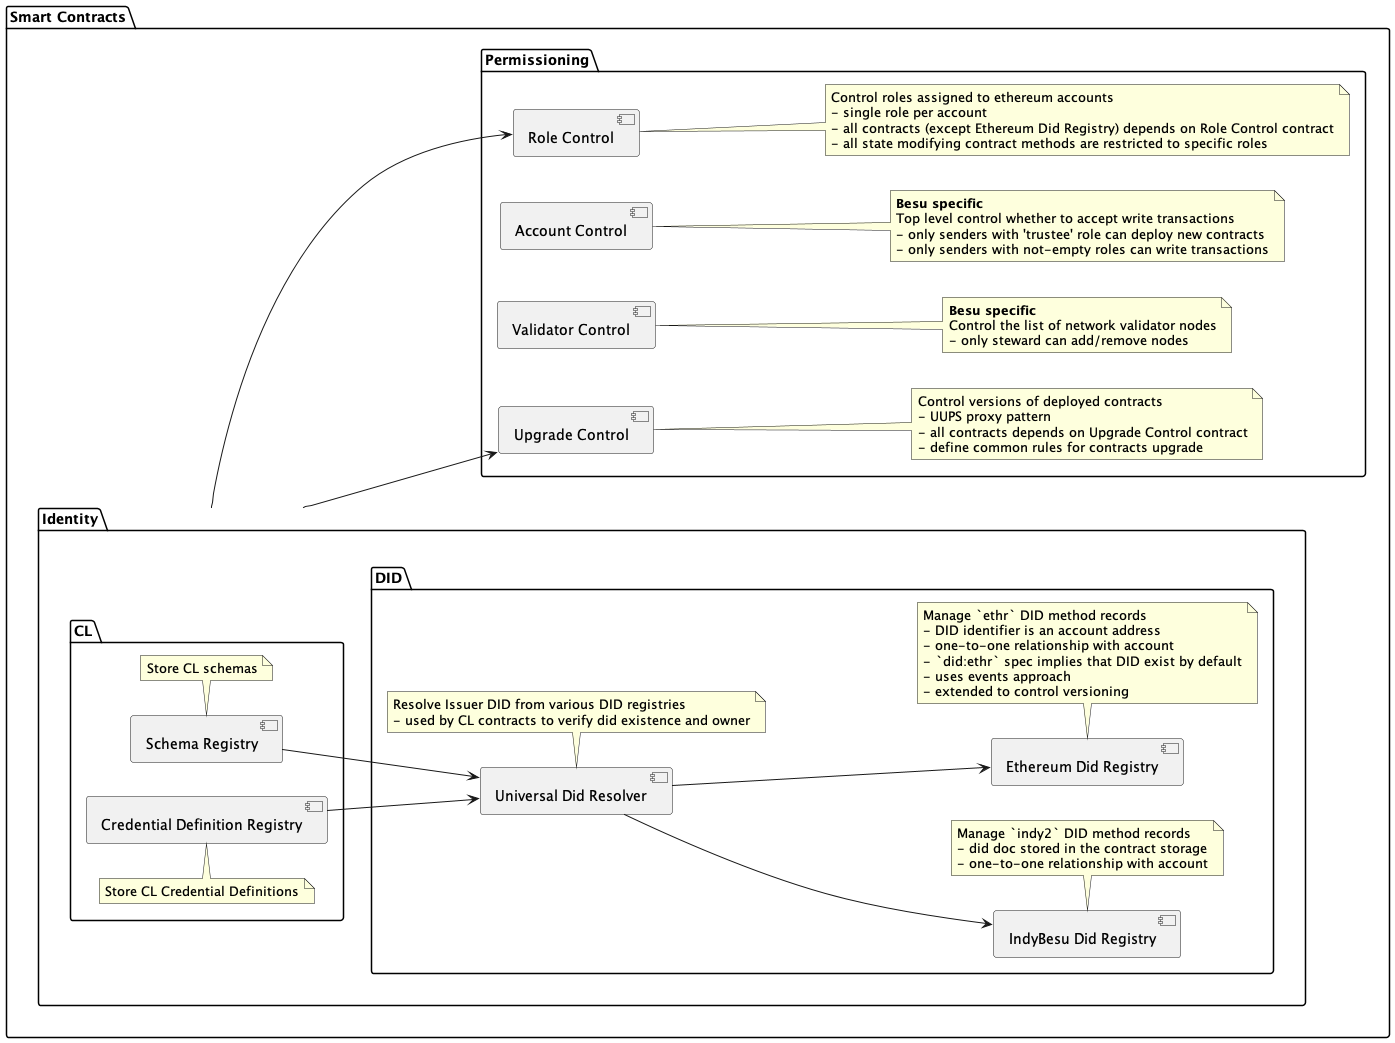
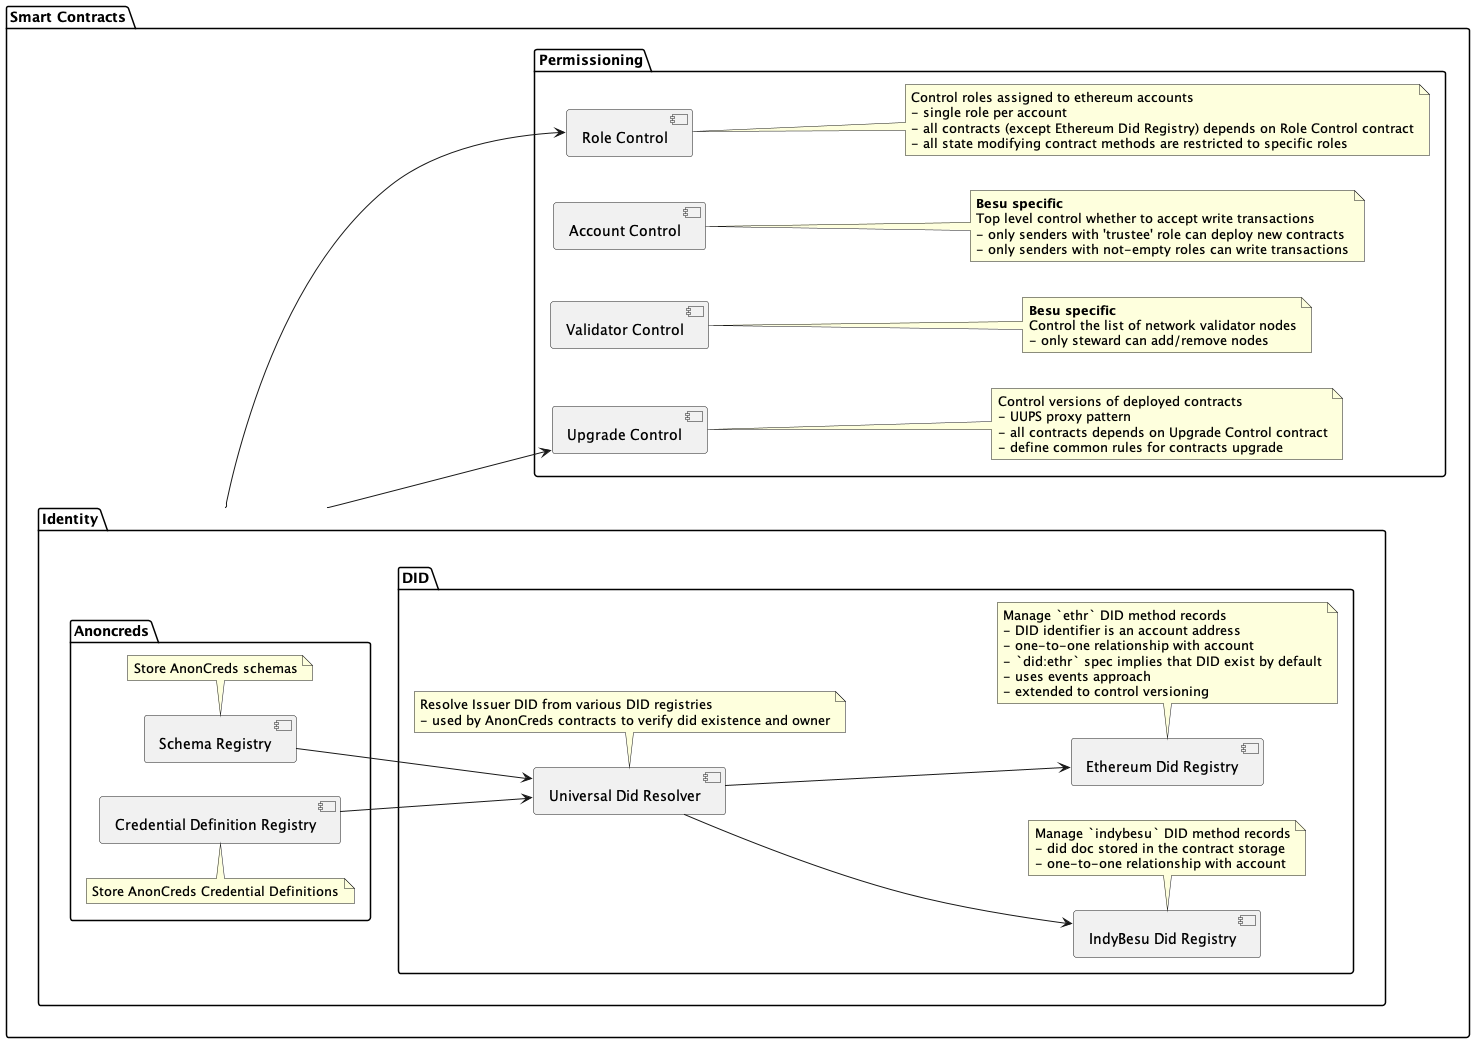
Rename cl group of contracts to anoncreds (#27)

diff --git a/smart_contracts/test/utils/contract-helpers.ts b/smart_contracts/test/utils/contract-helpers.ts
@@ -1,6 +1,7 @@
 import { getBytes } from 'ethers'
 import {
   CredentialDefinitionRegistry,
+  EthereumExtDidRegistry,
   IndyDidRegistry,
   LegacyMappingRegistry,
   RoleControl,
@@ -15,9 +16,9 @@ import { getTestAccounts, ZERO_ADDRESS } from './test-entities'
 export const testActorAddress = '0x2036C6CD85692F0Fb2C26E6c6B2ECed9e4478Dfd'
[1 lines of base64/hex data omitted]
 
-export class EthereumDIDRegistry extends testableContractMixin(Contract) {
+export class TestableEthereumDIDRegistry extends testableContractMixin(Contract) {
   constructor() {
-    super(EthereumDIDRegistry.name)
+    super(EthereumExtDidRegistry.name)
   }
 }
 
@@ -62,7 +63,7 @@ export async function deployIndyDidRegistry() {
 
 export async function deployUniversalDidResolver() {
   const { roleControl, indyDidRegistry, testAccounts } = await deployIndyDidRegistry()
-  const ethereumDIDRegistry = await new EthereumDIDRegistry().deploy()
+  const ethereumDIDRegistry = await new TestableEthereumDIDRegistry().deploy()
 
   const universalDidResolver = await new TestableUniversalDidResolver().deployProxy({
     params: [ZERO_ADDRESS, indyDidRegistry.address, ethereumDIDRegistry.address],

diff --git a/smart_contracts/contracts-ts/CredentialDefinitionRegistry.ts b/smart_contracts/contracts-ts/CredentialDefinitionRegistry.ts
@@ -1,5 +1,5 @@
 import { concat, getBytes, keccak256, Signature, toUtf8Bytes, toUtf8String } from 'ethers'
-import { CredentialDefinitionMetadataStruct } from '../typechain-types/contracts/cl/CredentialDefinitionRegistry'
+import { CredentialDefinitionMetadataStruct } from '../typechain-types/contracts/anoncreds/CredentialDefinitionRegistry'
 import { Contract } from '../utils/contract'
 
 export type CredentialDefinitionRecord = {

diff --git a/smart_contracts/contracts-ts/SchemaRegistry.ts b/smart_contracts/contracts-ts/SchemaRegistry.ts
@@ -1,5 +1,5 @@
 import { concat, getBytes, keccak256, Signature, toUtf8Bytes, toUtf8String } from 'ethers'
-import { SchemaMetadataStruct } from '../typechain-types/contracts/cl/SchemaRegistry'
+import { SchemaMetadataStruct } from '../typechain-types/contracts/anoncreds/SchemaRegistry'
 import { Contract } from '../utils/contract'
 
 export type SchemaRecord = {

diff --git a/smart_contracts/contracts-ts/index.ts b/smart_contracts/contracts-ts/index.ts
@@ -1,7 +1,7 @@
 export * from './AccountControl'
 export * from './CredentialDefinitionRegistry'
 export * from './IndyDidRegistry'
-export * from './EthereumDIDRegistry'
+export * from './EthereumDidRegistry'
 export * from './RoleControl'
 export * from './SchemaRegistry'
 export * from './UniversalDidReolver'

diff --git a/vdr/src/contracts/anoncreds/credential_definition_registry.rs b/vdr/src/contracts/anoncreds/credential_definition_registry.rs
@@ -2,7 +2,7 @@ use log_derive::{logfn, logfn_inputs};
 
 use crate::{
     client::LedgerClient,
-    contracts::cl::types::{
+    contracts::anoncreds::types::{
         credential_definition::{CredentialDefinition, CredentialDefinitionRecord},
         credential_definition_id::{CredentialDefinitionId, ParsedCredentialDefinitionId},
     },
@@ -188,7 +188,6 @@ pub async fn resolve_credential_definition(
 
     let transaction = build_resolve_credential_definition_transaction(client, id).await?;
     let response = client.submit_transaction(&transaction).await?;
-
     if response.is_empty() {
         return Err(VdrError::ClientInvalidResponse(format!(
             "Credential Definition not found for id: {:?}",
@@ -215,7 +214,7 @@ pub mod test {
     use crate::{
         client::client::test::{mock_client, CONFIG, DEFAULT_NONCE, TEST_ACCOUNT, TRUSTEE_ACCOUNT},
         contracts::{
-            cl::types::{
+            anoncreds::types::{
                 credential_definition::test::{
                     credential_definition, credential_definition_value, CREDENTIAL_DEFINITION_TAG,
                 },

diff --git a/vdr/src/test.rs b/vdr/src/test.rs
@@ -1,8 +1,10 @@
 use crate::{
     client::client::test::{client, TRUSTEE_ACCOUNT},
     contracts::{
+        anoncreds::types::{
+            credential_definition::test::credential_definition, schema::test::schema,
+        },
         auth::{role_control, Role},
-        cl::types::{credential_definition::test::credential_definition, schema::test::schema},
         did::{did_indy_registry, types::did_doc::test::did_doc, DidRecord, DID, ETHR_DID_METHOD},
     },
     signer::basic_signer::{test::basic_signer, BasicSigner},
@@ -775,7 +777,7 @@ mod mapping {
     use crate::{
         client::client::test::client,
         contracts::{
-            cl::types::schema::test::{SCHEMA_NAME, SCHEMA_VERSION},
+            anoncreds::types::schema::test::{SCHEMA_NAME, SCHEMA_VERSION},
             migration::types::did::{LegacyDid, LegacyVerkey},
         },
         legacy_mapping_registry, Ed25519Signature, ResourceIdentifier, SchemaId,

diff --git a/vdr/src/contracts/anoncreds/types/credential_definition.rs b/vdr/src/contracts/anoncreds/types/credential_definition.rs
@@ -4,7 +4,7 @@ use crate::{
     CredentialDefinitionId, VdrResult,
 };
 
-use crate::contracts::{cl::types::schema_id::SchemaId, did::types::did::DID};
+use crate::contracts::{anoncreds::types::schema_id::SchemaId, did::types::did::DID};
 use serde_derive::{Deserialize, Serialize};
 
 #[derive(Debug, Clone, PartialEq, Deserialize, Serialize)]
@@ -135,7 +135,9 @@ impl TryFrom<ContractOutput> for CredentialDefinitionRecord {
 pub mod test {
     use super::*;
     use crate::{
-        contracts::{cl::types::schema::test::SCHEMA_ID, did::types::did_doc::test::TEST_ETHR_DID},
+        contracts::{
+            anoncreds::types::schema::test::SCHEMA_ID, did::types::did_doc::test::TEST_ETHR_DID,
+        },
         utils::rand_string,
     };
     use serde_json::json;

diff --git a/vdr/src/contracts/anoncreds/schema_registry.rs b/vdr/src/contracts/anoncreds/schema_registry.rs
@@ -2,7 +2,7 @@ use log_derive::{logfn, logfn_inputs};
 
 use crate::{
     client::LedgerClient,
-    contracts::cl::types::{
+    contracts::anoncreds::types::{
         schema::{Schema, SchemaRecord},
         schema_id::{ParsedSchemaId, SchemaId},
     },
@@ -206,7 +206,9 @@ pub mod test {
     use crate::{
         client::client::test::{mock_client, CONFIG, DEFAULT_NONCE, TEST_ACCOUNT},
         contracts::{
-            cl::types::schema::test::{schema, SCHEMA_ATTRIBUTES, SCHEMA_NAME, SCHEMA_VERSION},
+            anoncreds::types::schema::test::{
+                schema, SCHEMA_ATTRIBUTES, SCHEMA_NAME, SCHEMA_VERSION,
+            },
             did::types::{did::DID, did_doc::test::TEST_ETHR_DID},
         },
     };

diff --git a/vdr/src/lib.rs b/vdr/src/lib.rs
@@ -17,14 +17,14 @@ mod test;
 
 pub use client::{Client, Contract, LedgerClient};
 pub use contracts::{
-    auth::{role_control, Role},
-    cl::{
+    anoncreds::{
         credential_definition_registry, schema_registry,
         types::{
             credential_definition::CredentialDefinition,
             credential_definition_id::CredentialDefinitionId, schema::Schema, schema_id::SchemaId,
         },
     },
+    auth::{role_control, Role},
     did::{
         did_ethr_registry, did_indy_registry, did_resolver,
         types::{
